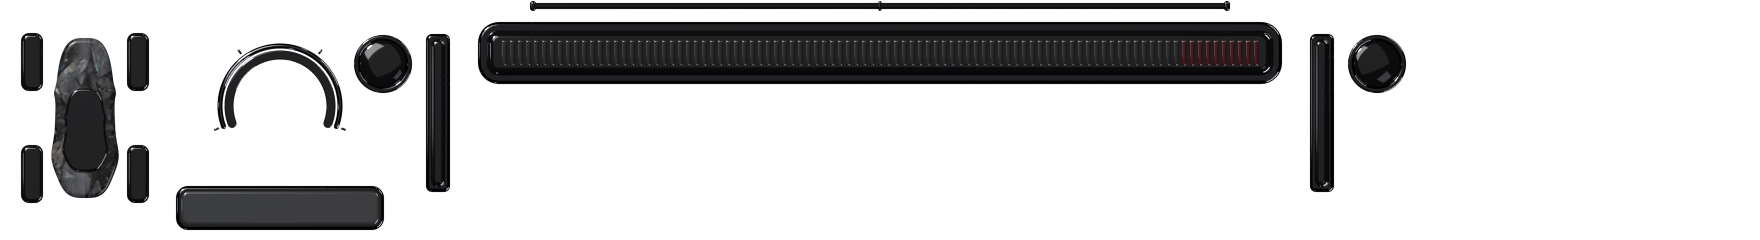
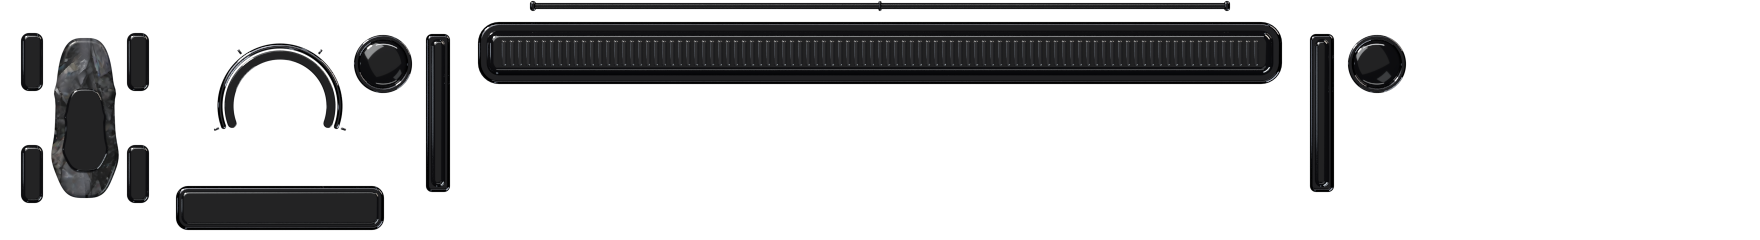
Gt7HoodPro: the third materials pass of the plate and the tile
Rebuilt on the cloud lane from the 248cc98 recipe: the strip lights put a highlight line on the light bar's and the plinth's long edges, and the trip window is black glass (face luminance 0.017, was 0.047).

diff --git a/assets/clusters/gt7_hood_pro/ASSETS.md b/assets/clusters/gt7_hood_pro/ASSETS.md
@@ -7,12 +7,12 @@ Built by `cargo run --release -p asset-forge -- --masters gt7_hood_pro build --s
 | File | Kind | Size | Bytes | Generator (recipe + seed) | Licence | Used for |
 |---|---|---|---|---|---|---|
 | (no runtime file: rendered into `plate_*.png`) | seamless forged-carbon texture | 4096x4096 | master | comfyui:gt7_hood_pro::CARBON (SDXL base 1.0 + refiner when installed, 1024², dpmpp_2m karras, half-offset seam repaint at denoise 0.55, 4x-UltraSharp) seed=73101 prompt="macro photograph of forged carbon fibre composite, large marbled chopped carbon flakes in graphite grey and black under clear resin, glossy, flat top-down, filling the whole frame, even soft studio light, seamless tileable texture, physically based material scan" | CreativeML Open RAIL++-M output (SDXL); MIT (asset-forge) | the colour and relief of the tyre diagram's car chip (one repeat per 320 px). Master `gt7_hood_pro_forged_carbon.png` |
-| `plate_0.png` | the band's static hardware: black-glass light bar on a polished plinth with 95 smoked LED lenses, carbon car chip with four tyre lenses, polished boost arc and its black-glass groove, two pedal slots, two telltale rings and the trip tile; covers x -880..880, y -100..140; key at -135° (sRGB, straight alpha) | 1760x240 | 89 KB | blender:hero (gt7_hood_pro::plate, Cycles 192 samples, ortho at 2 px per 4K px, box-filtered to 1:1; hero rig at power 0.55) | MIT (asset-forge) | drawn at full strength; the cluster cross-fades the azimuths with the virtual light. Master `plate/beauty_0.png` |
-| `plate_1.png` | the band's static hardware: black-glass light bar on a polished plinth with 95 smoked LED lenses, carbon car chip with four tyre lenses, polished boost arc and its black-glass groove, two pedal slots, two telltale rings and the trip tile; covers x -880..880, y -100..140; key at -160° (sRGB, straight alpha) | 1760x240 | 103 KB | blender:hero (gt7_hood_pro::plate, Cycles 192 samples, ortho at 2 px per 4K px, box-filtered to 1:1; hero rig at power 0.55) | MIT (asset-forge) | drawn at full strength; the cluster cross-fades the azimuths with the virtual light. Master `plate/beauty_1.png` |
-| `plate_2.png` | the band's static hardware: black-glass light bar on a polished plinth with 95 smoked LED lenses, carbon car chip with four tyre lenses, polished boost arc and its black-glass groove, two pedal slots, two telltale rings and the trip tile; covers x -880..880, y -100..140; key at -110° (sRGB, straight alpha) | 1760x240 | 96 KB | blender:hero (gt7_hood_pro::plate, Cycles 192 samples, ortho at 2 px per 4K px, box-filtered to 1:1; hero rig at power 0.55) | MIT (asset-forge) | drawn at full strength; the cluster cross-fades the azimuths with the virtual light. Master `plate/beauty_2.png` |
-| `suggest_0.png` | the suggested-gear tile: red enamel on a black-chrome base; covers x 156..266, y -2..100; key at -135° (sRGB, straight alpha) | 110x102 | 5 KB | blender:hero (gt7_hood_pro::suggest, Cycles 192 samples, ortho at 2 px per 4K px, box-filtered to 1:1; hero rig at power 0.55) | MIT (asset-forge) | drawn at full strength; the cluster cross-fades the azimuths with the virtual light. Master `suggest/beauty_0.png` |
-| `suggest_1.png` | the suggested-gear tile: red enamel on a black-chrome base; covers x 156..266, y -2..100; key at -160° (sRGB, straight alpha) | 110x102 | 5 KB | blender:hero (gt7_hood_pro::suggest, Cycles 192 samples, ortho at 2 px per 4K px, box-filtered to 1:1; hero rig at power 0.55) | MIT (asset-forge) | drawn at full strength; the cluster cross-fades the azimuths with the virtual light. Master `suggest/beauty_1.png` |
-| `suggest_2.png` | the suggested-gear tile: red enamel on a black-chrome base; covers x 156..266, y -2..100; key at -110° (sRGB, straight alpha) | 110x102 | 5 KB | blender:hero (gt7_hood_pro::suggest, Cycles 192 samples, ortho at 2 px per 4K px, box-filtered to 1:1; hero rig at power 0.55) | MIT (asset-forge) | drawn at full strength; the cluster cross-fades the azimuths with the virtual light. Master `suggest/beauty_2.png` |
+| `plate_0.png` | the band's static hardware: a pillowed black-glass light bar on a polished black-chrome plinth with 95 domed smoked LED lenses, the steering rail with its notch and stops, a forged-carbon car chip with a black-glass canopy and four pillowed black-glass tyre lenses, a polished gunmetal boost arc with four engraved marks and its black-glass groove, two half-round black-glass pedal slots, two domed telltale lamps in black-chrome rings and the black-glass trip window; covers x -880..880, y -100..140; key at -135° (sRGB, straight alpha) | 1760x240 | 98 KB | blender:hero (gt7_hood_pro::plate, Cycles 192 samples, ortho at 2 px per 4K px, box-filtered to 1:1; the band rig: hero rig with the sky at 0.4 and the world at 0.5, a window softbox and two strips, at power 0.55) | MIT (asset-forge) | drawn at full strength; the cluster cross-fades the azimuths with the virtual light. Master `plate/beauty_0.png` |
+| `plate_1.png` | the band's static hardware: a pillowed black-glass light bar on a polished black-chrome plinth with 95 domed smoked LED lenses, the steering rail with its notch and stops, a forged-carbon car chip with a black-glass canopy and four pillowed black-glass tyre lenses, a polished gunmetal boost arc with four engraved marks and its black-glass groove, two half-round black-glass pedal slots, two domed telltale lamps in black-chrome rings and the black-glass trip window; covers x -880..880, y -100..140; key at -160° (sRGB, straight alpha) | 1760x240 | 112 KB | blender:hero (gt7_hood_pro::plate, Cycles 192 samples, ortho at 2 px per 4K px, box-filtered to 1:1; the band rig: hero rig with the sky at 0.4 and the world at 0.5, a window softbox and two strips, at power 0.55) | MIT (asset-forge) | drawn at full strength; the cluster cross-fades the azimuths with the virtual light. Master `plate/beauty_1.png` |
+| `plate_2.png` | the band's static hardware: a pillowed black-glass light bar on a polished black-chrome plinth with 95 domed smoked LED lenses, the steering rail with its notch and stops, a forged-carbon car chip with a black-glass canopy and four pillowed black-glass tyre lenses, a polished gunmetal boost arc with four engraved marks and its black-glass groove, two half-round black-glass pedal slots, two domed telltale lamps in black-chrome rings and the black-glass trip window; covers x -880..880, y -100..140; key at -110° (sRGB, straight alpha) | 1760x240 | 103 KB | blender:hero (gt7_hood_pro::plate, Cycles 192 samples, ortho at 2 px per 4K px, box-filtered to 1:1; the band rig: hero rig with the sky at 0.4 and the world at 0.5, a window softbox and two strips, at power 0.55) | MIT (asset-forge) | drawn at full strength; the cluster cross-fades the azimuths with the virtual light. Master `plate/beauty_2.png` |
+| `suggest_0.png` | the suggested-gear tile: red enamel on a black-chrome base; covers x 156..266, y -2..100; key at -135° (sRGB, straight alpha) | 110x102 | 5 KB | blender:hero (gt7_hood_pro::suggest, Cycles 192 samples, ortho at 2 px per 4K px, box-filtered to 1:1; the band rig: hero rig with the sky at 0.4 and the world at 0.5, a window softbox and two strips, at power 0.55) | MIT (asset-forge) | drawn at full strength; the cluster cross-fades the azimuths with the virtual light. Master `suggest/beauty_0.png` |
+| `suggest_1.png` | the suggested-gear tile: red enamel on a black-chrome base; covers x 156..266, y -2..100; key at -160° (sRGB, straight alpha) | 110x102 | 6 KB | blender:hero (gt7_hood_pro::suggest, Cycles 192 samples, ortho at 2 px per 4K px, box-filtered to 1:1; the band rig: hero rig with the sky at 0.4 and the world at 0.5, a window softbox and two strips, at power 0.55) | MIT (asset-forge) | drawn at full strength; the cluster cross-fades the azimuths with the virtual light. Master `suggest/beauty_1.png` |
+| `suggest_2.png` | the suggested-gear tile: red enamel on a black-chrome base; covers x 156..266, y -2..100; key at -110° (sRGB, straight alpha) | 110x102 | 5 KB | blender:hero (gt7_hood_pro::suggest, Cycles 192 samples, ortho at 2 px per 4K px, box-filtered to 1:1; the band rig: hero rig with the sky at 0.4 and the world at 0.5, a window softbox and two strips, at power 0.55) | MIT (asset-forge) | drawn at full strength; the cluster cross-fades the azimuths with the virtual light. Master `suggest/beauty_2.png` |
 
 ## 4K masters (Google Drive, `FH6 WheelDash v2 - 4K Masters/gt7_hood_pro/`)
 
